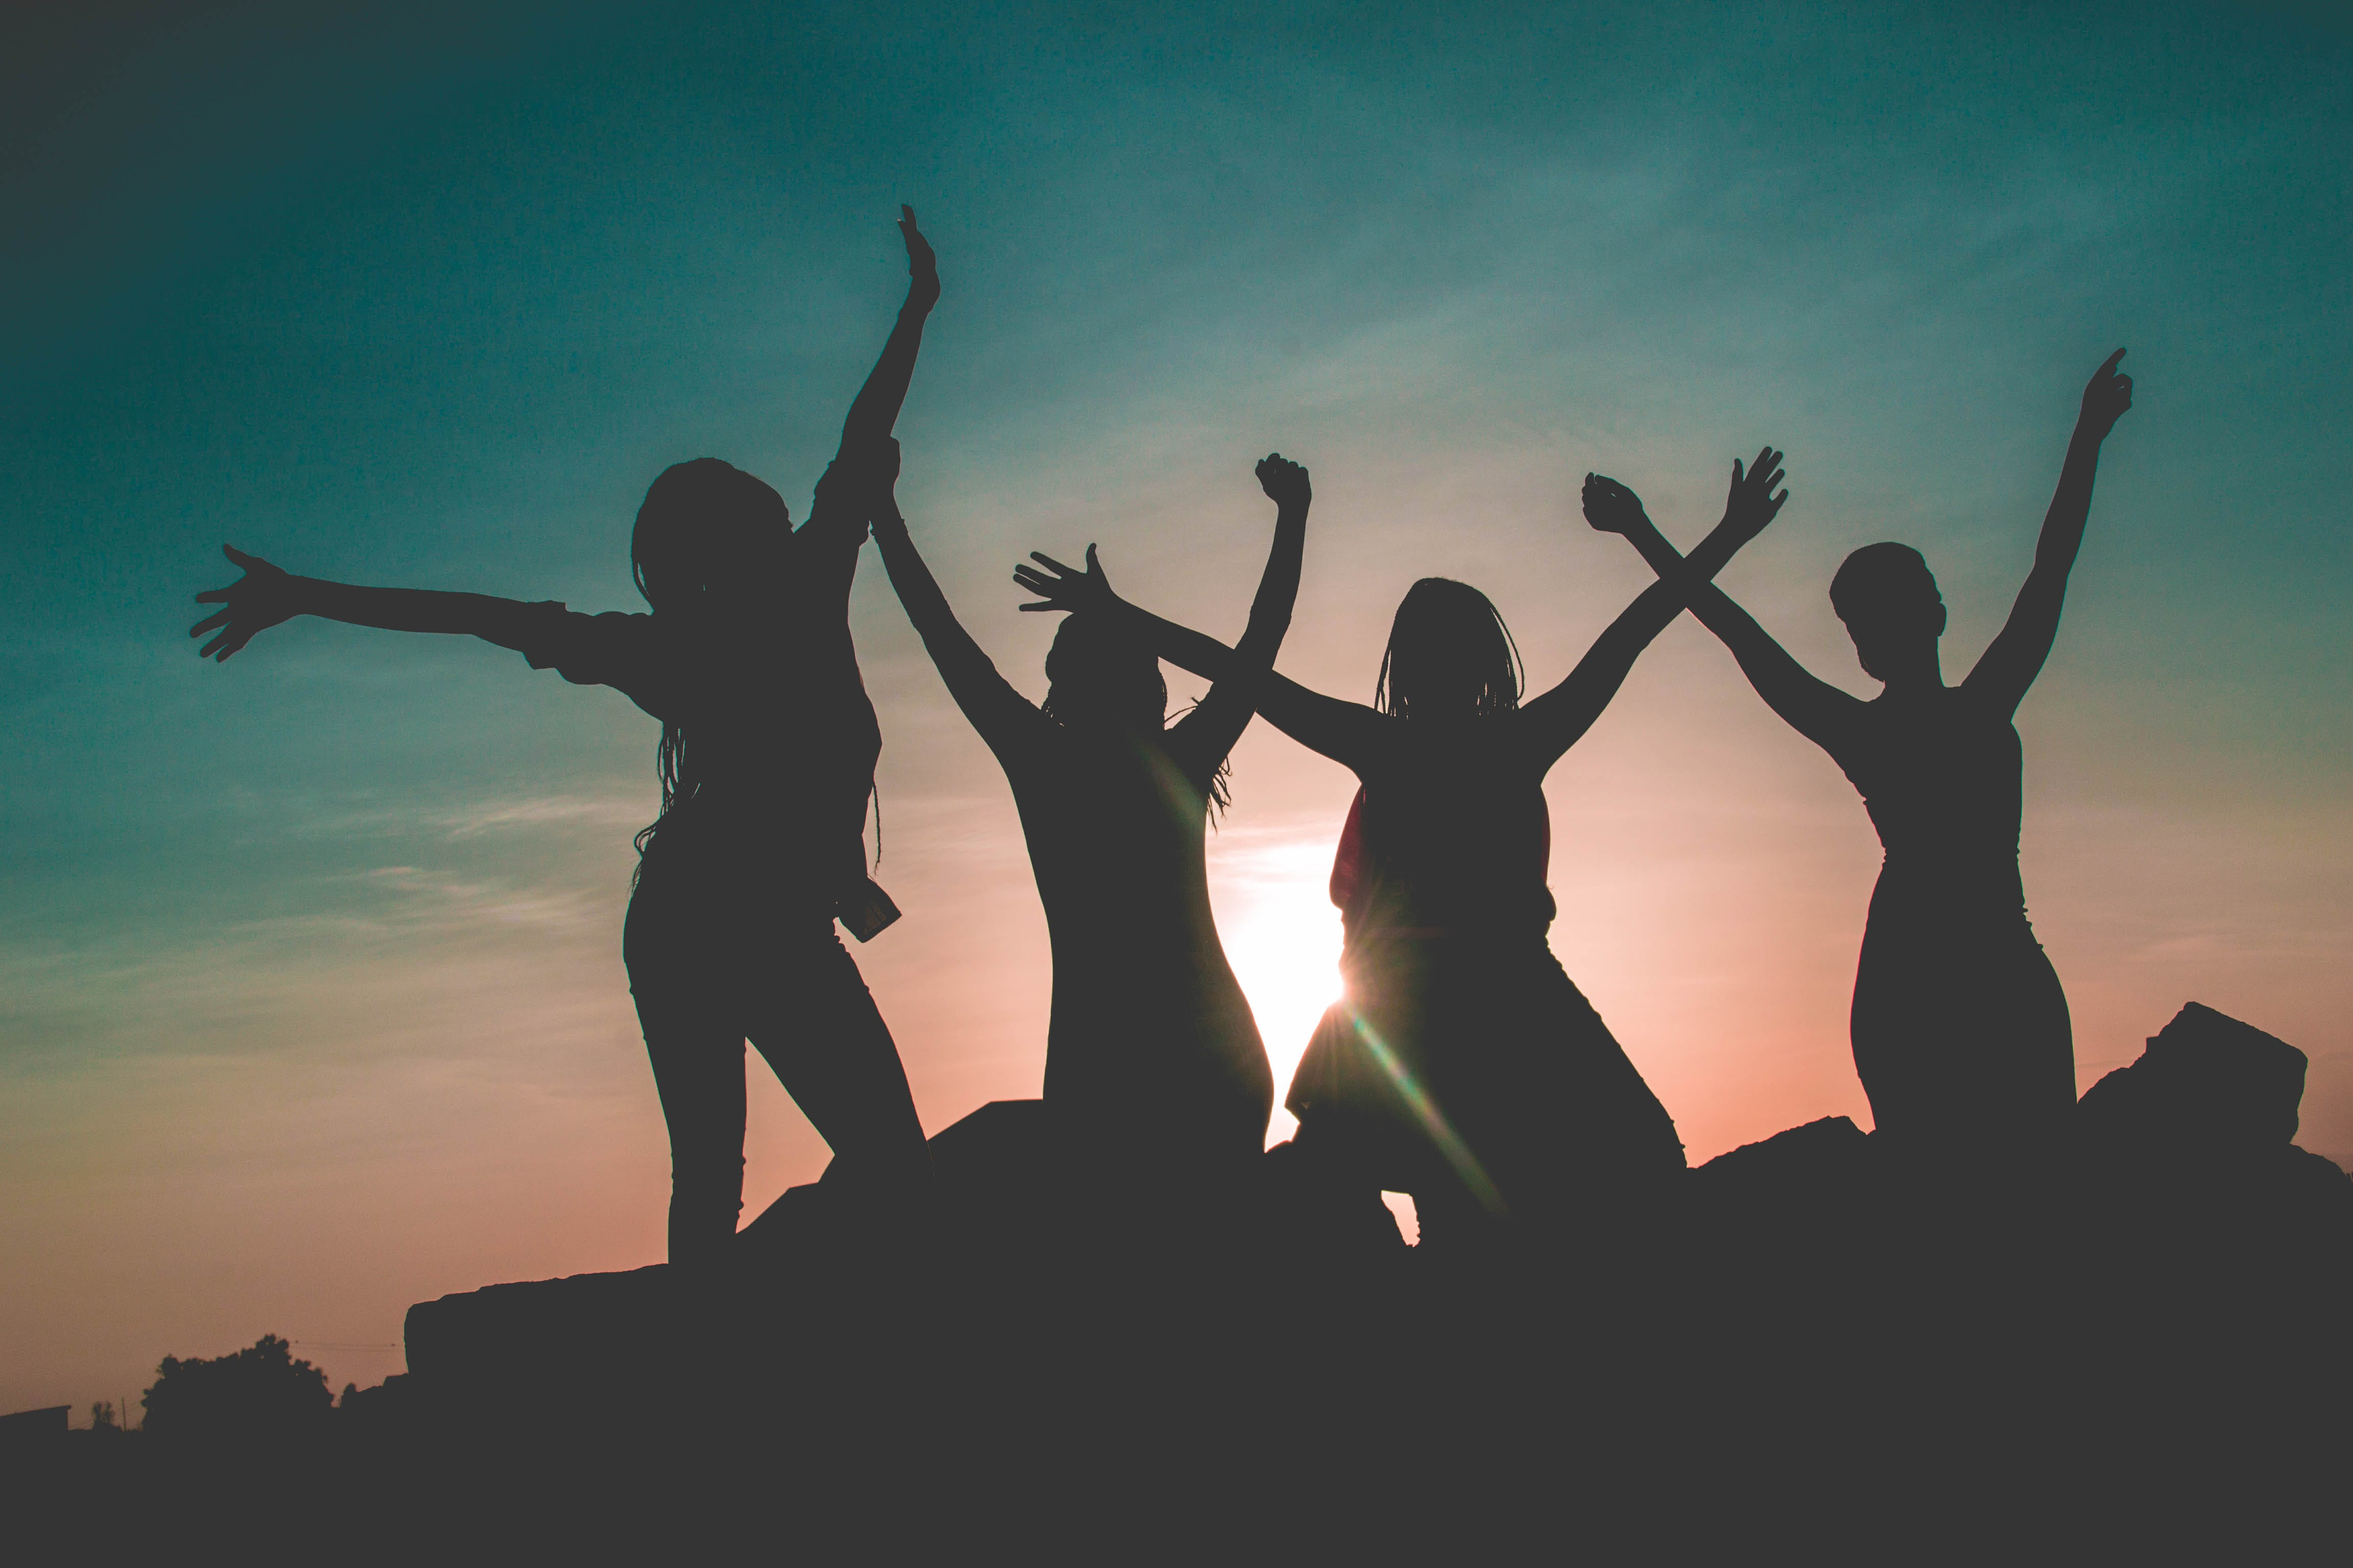
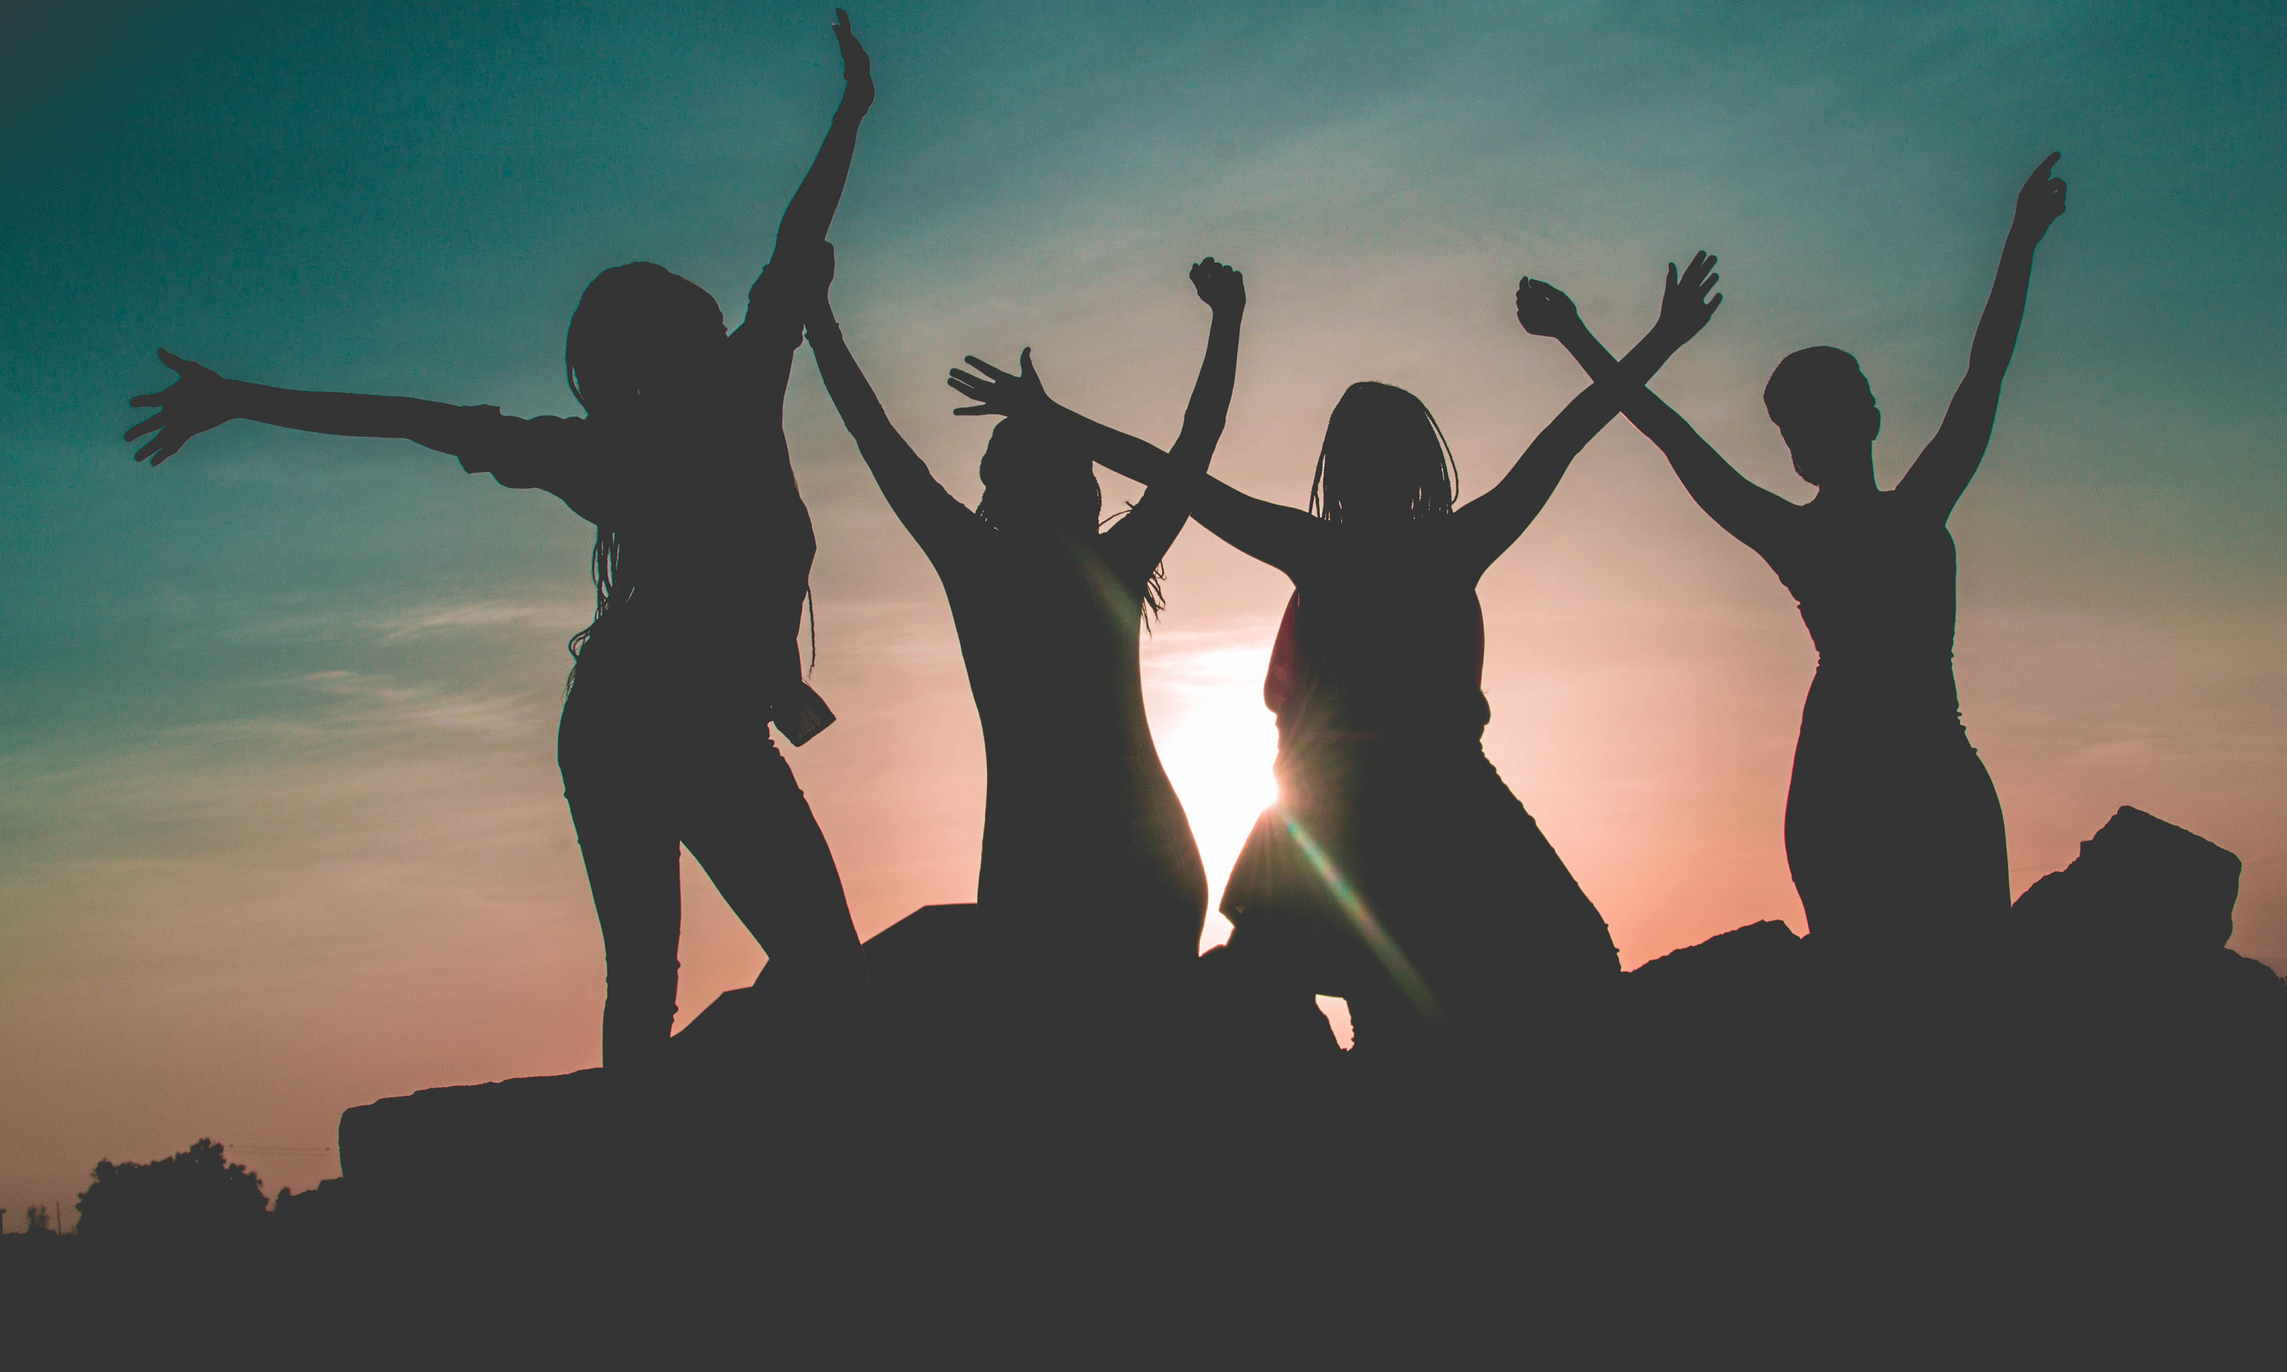
profile

diff --git a/src/AppRoutes.jsx b/src/AppRoutes.jsx
@@ -27,26 +27,20 @@ const AppRoutes = () => {
         <Route element={<PrivateRoute />}>
             <Route path="/lista-deseos" element={<h1>Dime tu lista de deseos para reyes :P</h1>} />
             <Route path="/perfil" element={<Profile />} />
-            <Route path="/perfil/editar" element={<h1>Edito el usuario</h1>} />
+            {/* <Route path="/perfil/editar" element={<h1>Edito el usuario</h1>} /> no hay edicion como tal en cliente*/}
 
             <Route path="/viajes" element={<Trips />} />
             <Route path="/viajes/crear" element={<NewTripForm />} />
-            <Route path="/viajes/realizados" element={<h1>Soy los viajes realizados</h1>} />
+            {/* <Route path="/viajes/realizados" element={<Trips />} />   2 listas en la vista */}
             <Route path="/viajes/reservas/:id/crear" element={<NewBookingForm />} />
             <Route path="/viajes/detalles/:id" element={<TripDetail />} />
 
-            <Route path="/viajes/reservas/:id" element={<h1>Detalles de reserva</h1>} />
+            {/* <Route path="/viajes/reservas/:id" element={<h1>Detalles de reserva</h1>} /> de momento*/}
             <Route path="/viajes/planes/:id" element={<h1>Soy los planes del viaje</h1>} />
             <Route path="/viajes/informacion/:id" element={<h1>Soy la información viajes</h1>} />
             <Route path="/viajes/gastos/:id/añadir" element={<NewExpenseForm />} />
             <Route path="/viajes/gastos/:id" element={<p>vista de gastos</p>} />
 
-
-
-
-            <Route path="/perfil/documentos" element={<h1>Soy los documentos del usuario</h1>} />
-            <Route path="/perfil/amigos" element={<h1>Soy la lista de amigos del usuario</h1>} />
-            <Route path="/perfil/amigos/añadir" element={<h1>Lista de usuarios para añadir amigos</h1>} />
         </Route>
 
         <Route path="*" element={<h1>Error 404 (no soy una tetera pero ojalá)</h1>} />

diff --git a/src/components/FriendList/FriendList.jsx b/src/components/FriendList/FriendList.jsx
@@ -1,7 +1,8 @@
-import { Button, Modal } from 'react-bootstrap';
+import { Button, Modal, Form, InputGroup } from 'react-bootstrap';
 import profileImg from '../../assets/profileDefault.png'
 import { useState } from 'react';
 import './FriendList.css'
+import SearchBar from '../SearchBar/SearchBar';
 
 const FriendList = () => {
     const [show, setShow] = useState(false);
@@ -27,7 +28,12 @@ const FriendList = () => {
                 </Modal.Header>
                 <Modal.Body>
 
-                    aqui listado de amigos
+                    <InputGroup className="mb-3">
+                        <InputGroup.Text id="basic-addon1">email</InputGroup.Text>
+                        <Form.Control placeholder="Email de usuario" />
+                    </InputGroup>
+
+                    <SearchBar />
 
                 </Modal.Body>
                 <Modal.Footer className='d-flex justify-content-around'>

diff --git a/src/components/SearchBar/SearchBar.jsx b/src/components/SearchBar/SearchBar.jsx
@@ -1,0 +1,26 @@
+import { Col, Container, Form, InputGroup, Row } from 'react-bootstrap'
+import defaultImg from './../../assets/profile.jpeg'
+import './SearchBar.css'
+const SearchBar = () => {
+    return (
+        <div className="SearchBar">
+            <Container>
+                <h5>Listado de usuarios</h5>
+                <Row md={{ span: 6, offset: 3 }}>
+                    <Col className='d-flex align-items-center userCard'>
+                        <img className="userPic" src={defaultImg} alt="" />
+                        <div>
+                            <p>Name</p>
+                            <p>Email</p>
+                        </div>
+                        <button className="ms-auto p-2 mybutton">Añadir</button>
+                    </Col>
+                    <hr />
+                </Row>
+            </Container>
+
+        </div >
+    )
+}
+
+export default SearchBar

diff --git a/src/components/Lists/TripList/TripList.jsx b/src/components/Lists/TripList/TripList.jsx
@@ -1,5 +1,5 @@
 import { Container, Row } from "react-bootstrap"
-import cabeceraProvisional from '../../../assets/cabeceraProvisional.jpeg'
+import cabeceraProvisional from '../../../assets/cabeceraProvisional.jpg'
 import TripCard from "../../Cards/TripCard/TripCard"
 import Loader from "../../Loader/Loader"
 
@@ -12,6 +12,7 @@ const TripList = ({ trips }) => {
             <Container>
                 <Row>
                     {
+
                         trips.map((trip, i) => {
                             return (
                                 <TripCard key={i} image={cabeceraProvisional} destination={trip.destination} startDate={trip.startDate} endDate={trip.endDate}></TripCard>

diff --git a/src/components/SearchBar/SearchBar.css b/src/components/SearchBar/SearchBar.css
@@ -1,0 +1,21 @@
+.userPic {
+    width: 40px;
+    height: 40px;
+    border-radius: 50px;
+    object-fit: cover;
+    margin-right: 20px;
+}
+
+p {
+    margin: 0 !important
+}
+
+.mybutton {
+    border-radius: 30px !important;
+    width: 20%;
+    line-height: 70%;
+    background-color: #E0F0FF;
+    background-color: #ceec97 !important;
+    border: #ceec97 1px !important;
+    color: #001E3D !important;
+}

diff --git a/src/components/FriendList/FriendList.css b/src/components/FriendList/FriendList.css
@@ -11,14 +11,16 @@
     text-align: center;
 }
 
-.myButton {
+.myButton2 {
     background-color: #ceec97 !important;
     border: #ceec97 1px !important;
     color: #001E3D !important;
+    border-radius: 30px !important;
 }
 
-.myButton2 {
+.myButton {
     background-color: #001E3D !important;
     border: #001E3D 1px !important;
     color: white !important;
+    border-radius: 30px !important;
 }

diff --git a/src/components/Profile/ProfileImage.jsx b/src/components/Profile/ProfileImage.jsx
@@ -2,8 +2,6 @@
 import "./ProfileImage.css"
 import { useContext } from 'react'
 import { AuthContext } from '../../context/auth.context'
-import { Button, NavLink } from "react-bootstrap";
-import { Link } from "react-router-dom";
 
 
 const ProfileImage = () => {

diff --git a/src/components/PlanCard/PlanCard.jsx b/src/components/PlanCard/PlanCard.jsx
@@ -1,6 +1,6 @@
 import { Container, Row, Col, Accordion } from "react-bootstrap"
 import './PlanCard.css'
-import image from './../../assets/cabeceraProvisional.jpeg'
+import image from './../../assets/cabeceraProvisional.jpg'
 
 const PlanCard = () => {
 

diff --git a/src/components/Tabs/Tabs.jsx b/src/components/Tabs/Tabs.jsx
@@ -1,5 +1,5 @@
 import Nav from 'react-bootstrap/Nav'
-import cabeceraProvisional from './../../assets/cabeceraProvisional.jpeg'
+import cabeceraProvisional from './../../assets/cabeceraProvisional.jpg'
 import './Tabs.css'
 
 const Tabs = () => {

diff --git a/src/components/Cards/TripCard/TripCard.jsx b/src/components/Cards/TripCard/TripCard.jsx
@@ -1,4 +1,6 @@
 import { Card, Col, Container, Row } from "react-bootstrap"
+
+import { Link } from "react-router-dom";
 import './TripCard.css'
 
 const TripCard = ({ image, destination, startDate, endDate }) => {

diff --git a/src/components/HomeCarousel/HomeCarousel.css b/src/components/HomeCarousel/HomeCarousel.css
@@ -1,7 +1,6 @@
 .carouselImg {
     height: 90vh;
     object-fit: contain;
-    bottom: 0
 }
 
 .caption {
